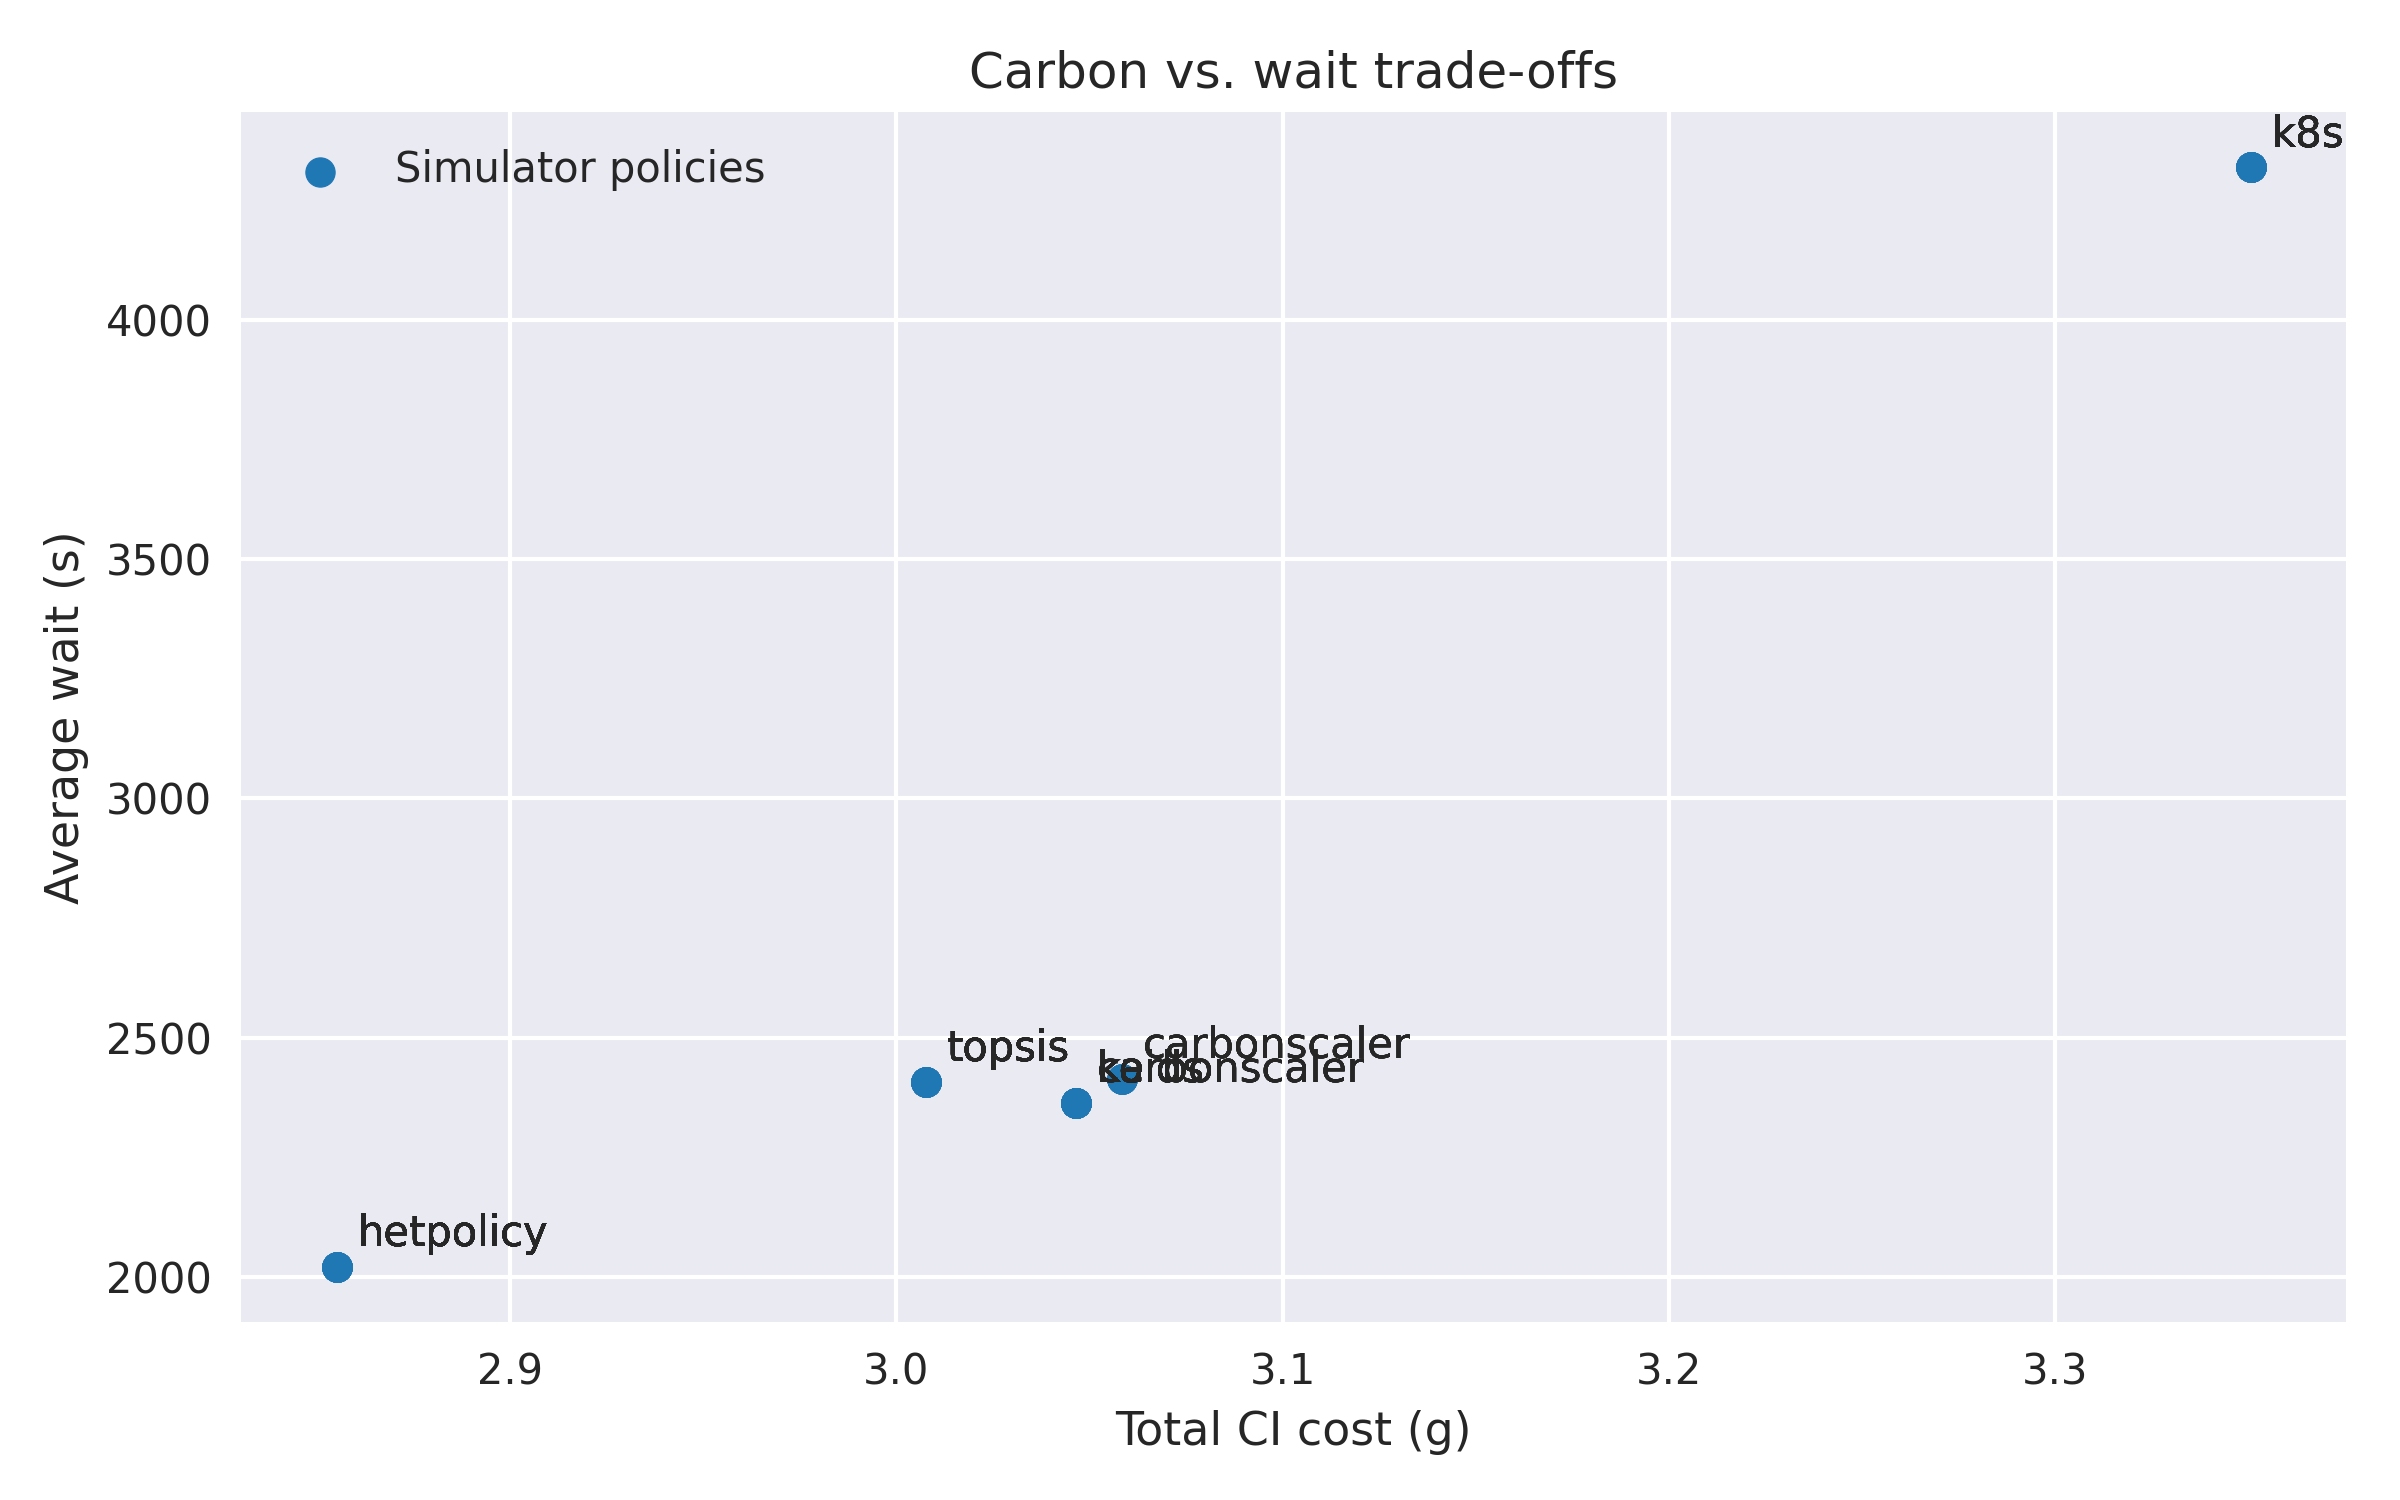
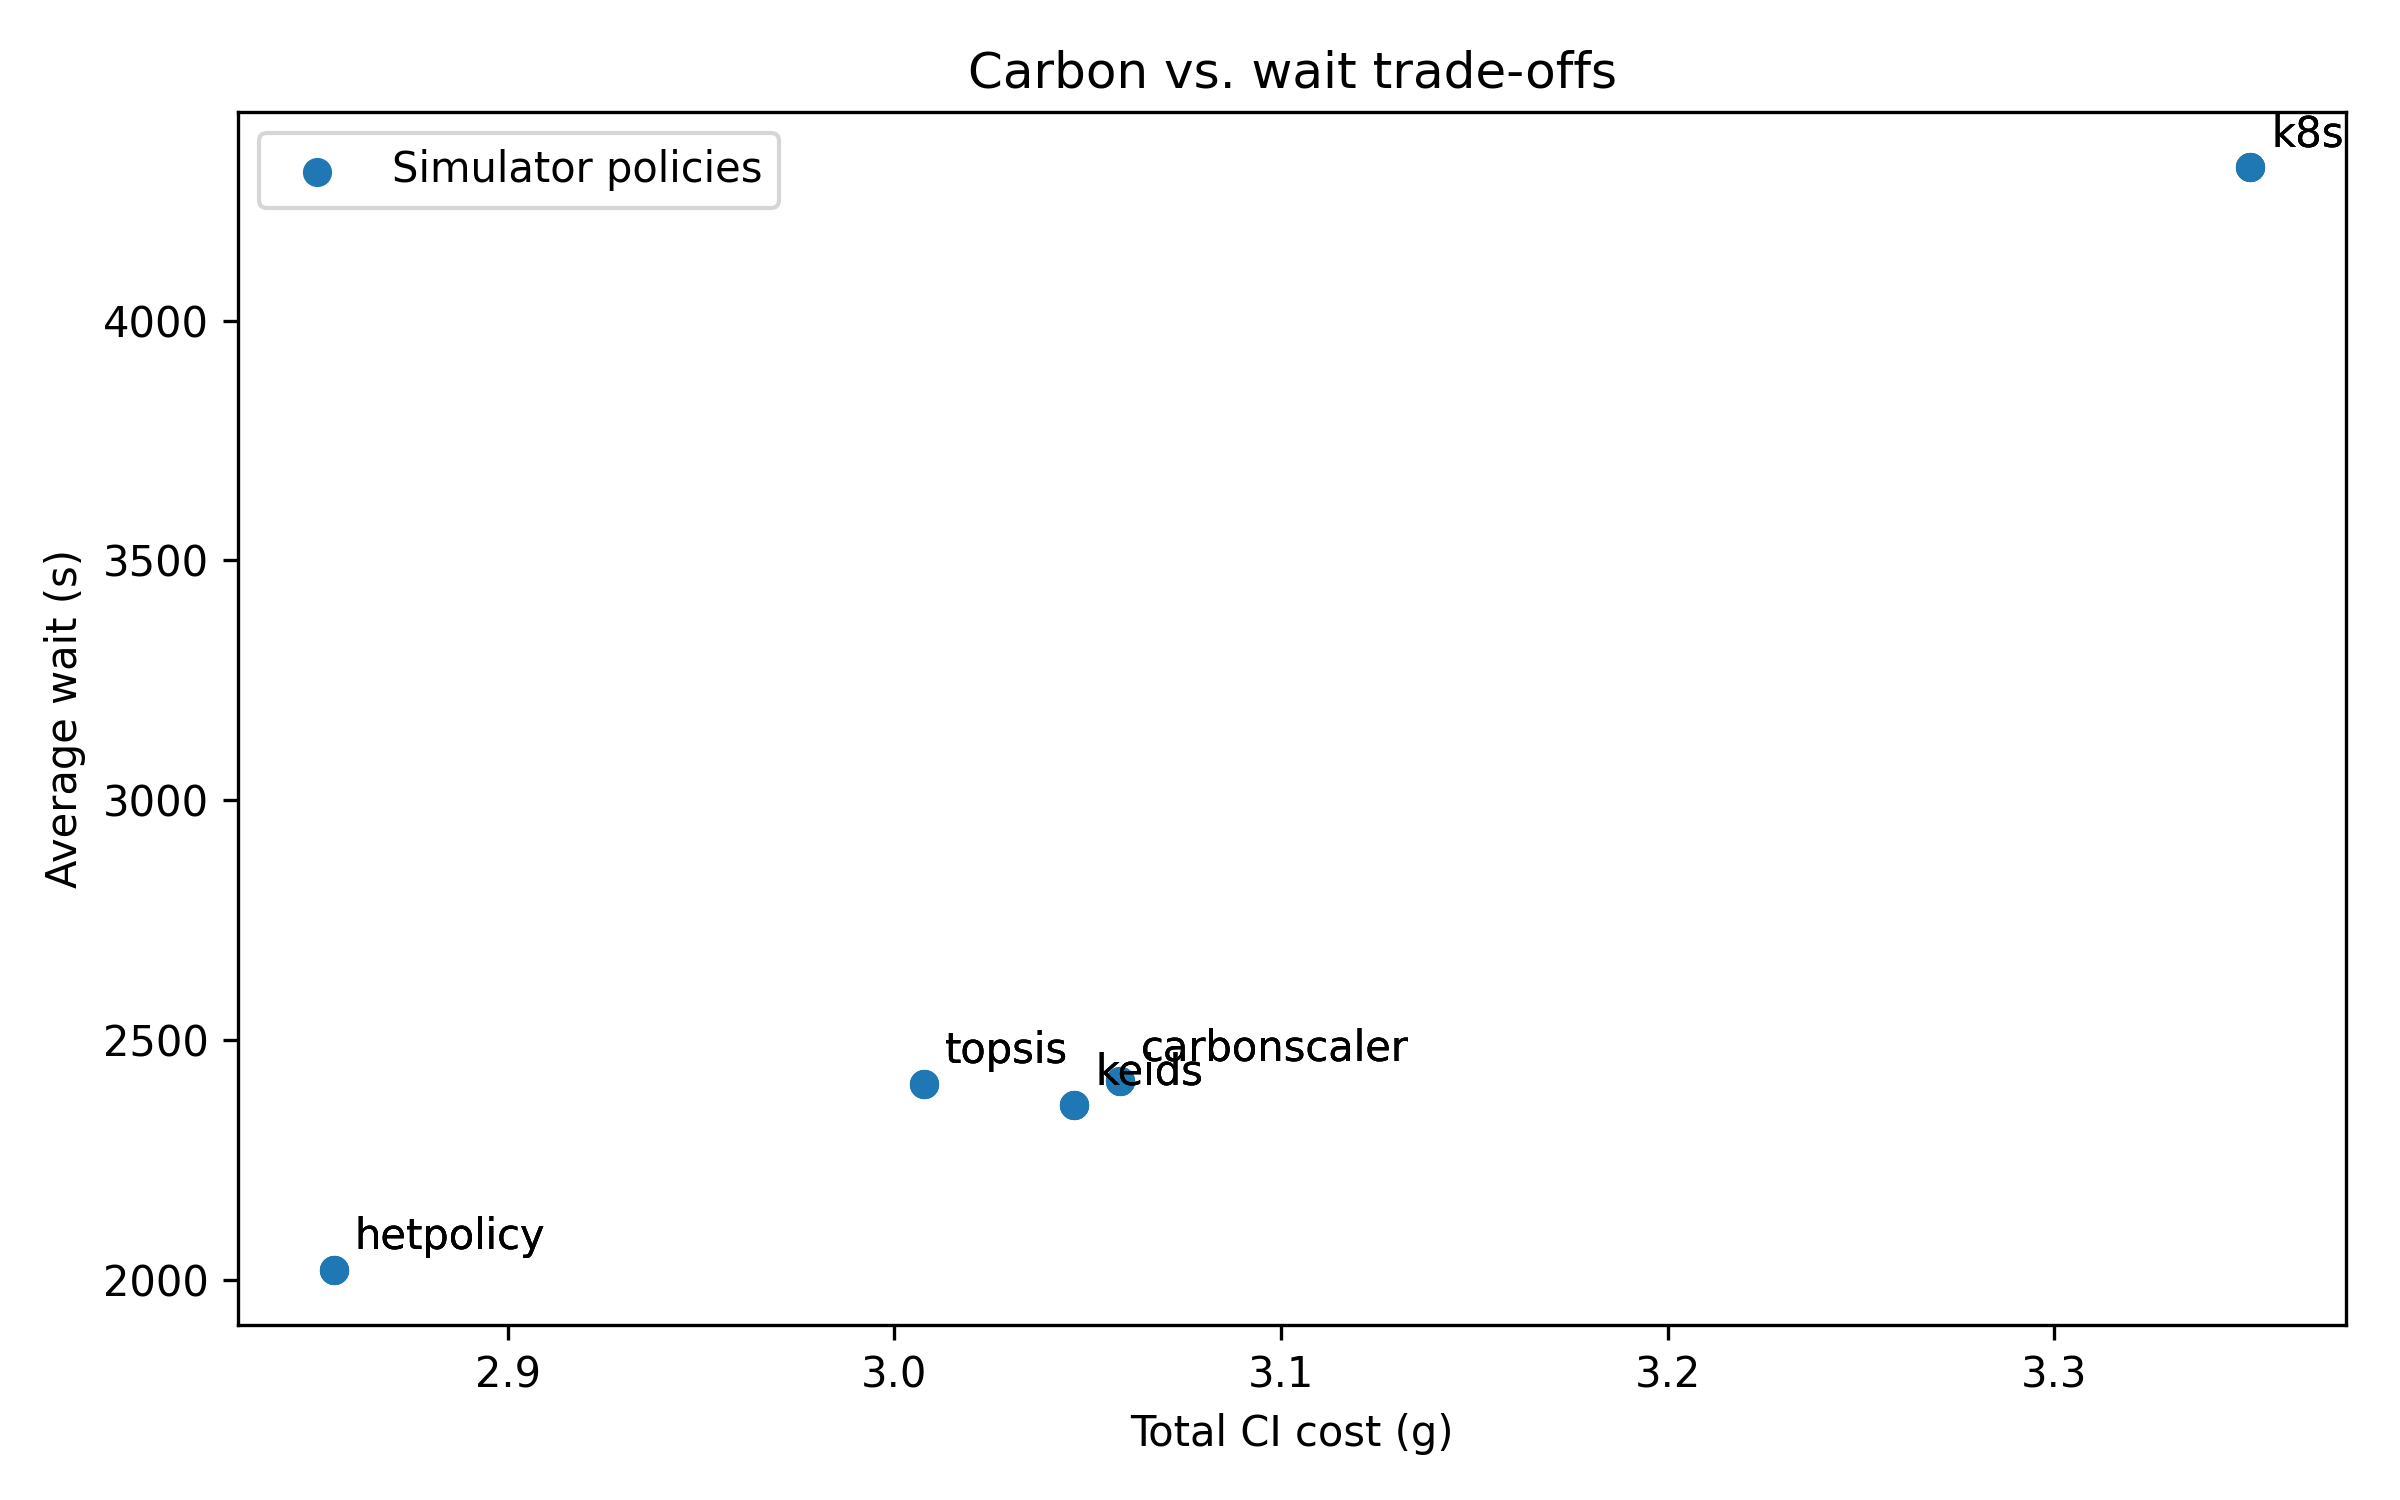
Fixing sim results.

diff --git a/analysis/tables/policy_pareto_front.tex b/analysis/tables/policy_pareto_front.tex
@@ -1,64 +1,25 @@
 \begin{table}
-\caption{Policy-level Pareto fronts (total carbon vs. average wait).}
-\label{tab:policy_pareto_front}
-\begin{tabular}{lrrrr}
+\caption{Simulator Pareto front (CI weight 0.4).}
+\label{tab:sim-pareto}
+\begin{tabular}{lrrllr}
 \toprule
-policy & ci_weight & batch_size & total_ci_cost_g & avg_wait_s \\
+Policy & batch_size & ci_weight & total_ci_cost_g & avg_wait_s & Pareto Front \\
 \midrule
-carbonscaler & 0.600 & 1000 & 3.046 & 2363.750 \\
-carbonscaler & 0.600 & 200 & 3.046 & 2363.750 \\
-carbonscaler & 0.600 & 500 & 3.046 & 2363.750 \\
-carbonscaler & 0.800 & 1000 & 3.046 & 2363.750 \\
-carbonscaler & 0.800 & 200 & 3.046 & 2363.750 \\
-carbonscaler & 0.800 & 500 & 3.046 & 2363.750 \\
-hetpolicy & 0.200 & 1000 & 2.855 & 2020.000 \\
-hetpolicy & 0.200 & 200 & 2.855 & 2020.000 \\
-hetpolicy & 0.200 & 500 & 2.855 & 2020.000 \\
-hetpolicy & 0.400 & 1000 & 2.855 & 2020.000 \\
-hetpolicy & 0.400 & 200 & 2.855 & 2020.000 \\
-hetpolicy & 0.400 & 500 & 2.855 & 2020.000 \\
-hetpolicy & 0.600 & 1000 & 2.855 & 2020.000 \\
-hetpolicy & 0.600 & 200 & 2.855 & 2020.000 \\
-hetpolicy & 0.600 & 500 & 2.855 & 2020.000 \\
-hetpolicy & 0.800 & 1000 & 2.855 & 2020.000 \\
-hetpolicy & 0.800 & 200 & 2.855 & 2020.000 \\
-hetpolicy & 0.800 & 500 & 2.855 & 2020.000 \\
-k8s & 0.200 & 1000 & 3.351 & 4320.000 \\
-k8s & 0.200 & 200 & 3.351 & 4320.000 \\
-k8s & 0.200 & 500 & 3.351 & 4320.000 \\
-k8s & 0.400 & 1000 & 3.351 & 4320.000 \\
-k8s & 0.400 & 200 & 3.351 & 4320.000 \\
-k8s & 0.400 & 500 & 3.351 & 4320.000 \\
-k8s & 0.600 & 1000 & 3.351 & 4320.000 \\
-k8s & 0.600 & 200 & 3.351 & 4320.000 \\
-k8s & 0.600 & 500 & 3.351 & 4320.000 \\
-k8s & 0.800 & 1000 & 3.351 & 4320.000 \\
-k8s & 0.800 & 200 & 3.351 & 4320.000 \\
-k8s & 0.800 & 500 & 3.351 & 4320.000 \\
-keids & 0.200 & 1000 & 3.046 & 2363.750 \\
-keids & 0.200 & 200 & 3.046 & 2363.750 \\
-keids & 0.200 & 500 & 3.046 & 2363.750 \\
-keids & 0.400 & 1000 & 3.046 & 2363.750 \\
-keids & 0.400 & 200 & 3.046 & 2363.750 \\
-keids & 0.400 & 500 & 3.046 & 2363.750 \\
-keids & 0.600 & 1000 & 3.046 & 2363.750 \\
-keids & 0.600 & 200 & 3.046 & 2363.750 \\
-keids & 0.600 & 500 & 3.046 & 2363.750 \\
-keids & 0.800 & 1000 & 3.046 & 2363.750 \\
-keids & 0.800 & 200 & 3.046 & 2363.750 \\
-keids & 0.800 & 500 & 3.046 & 2363.750 \\
-topsis & 0.200 & 1000 & 3.008 & 2407.500 \\
-topsis & 0.200 & 200 & 3.008 & 2407.500 \\
-topsis & 0.200 & 500 & 3.008 & 2407.500 \\
-topsis & 0.400 & 1000 & 3.008 & 2407.500 \\
-topsis & 0.400 & 200 & 3.008 & 2407.500 \\
-topsis & 0.400 & 500 & 3.008 & 2407.500 \\
-topsis & 0.600 & 1000 & 3.008 & 2407.500 \\
-topsis & 0.600 & 200 & 3.008 & 2407.500 \\
-topsis & 0.600 & 500 & 3.008 & 2407.500 \\
-topsis & 0.800 & 1000 & 3.008 & 2407.500 \\
-topsis & 0.800 & 200 & 3.008 & 2407.500 \\
-topsis & 0.800 & 500 & 3.008 & 2407.500 \\
+Hetpolicy & 200 & 0.400000 & 2.855 & 2020.000 & True \\
+Hetpolicy & 500 & 0.400000 & 2.855 & 2020.000 & True \\
+Hetpolicy & 1000 & 0.400000 & 2.855 & 2020.000 & True \\
+Topsis & 200 & 0.400000 & 3.008 & 2407.500 & False \\
+Topsis & 500 & 0.400000 & 3.008 & 2407.500 & False \\
+Topsis & 1000 & 0.400000 & 3.008 & 2407.500 & False \\
+Keids & 200 & 0.400000 & 3.046 & 2363.750 & False \\
+Keids & 500 & 0.400000 & 3.046 & 2363.750 & False \\
+Keids & 1000 & 0.400000 & 3.046 & 2363.750 & False \\
+Carbonscaler & 200 & 0.400000 & 3.058 & 2413.750 & False \\
+Carbonscaler & 500 & 0.400000 & 3.058 & 2413.750 & False \\
+Carbonscaler & 1000 & 0.400000 & 3.058 & 2413.750 & False \\
+K8s & 200 & 0.400000 & 3.351 & 4320.000 & False \\
+K8s & 500 & 0.400000 & 3.351 & 4320.000 & False \\
+K8s & 1000 & 0.400000 & 3.351 & 4320.000 & False \\
 \bottomrule
 \end{tabular}
 \end{table}